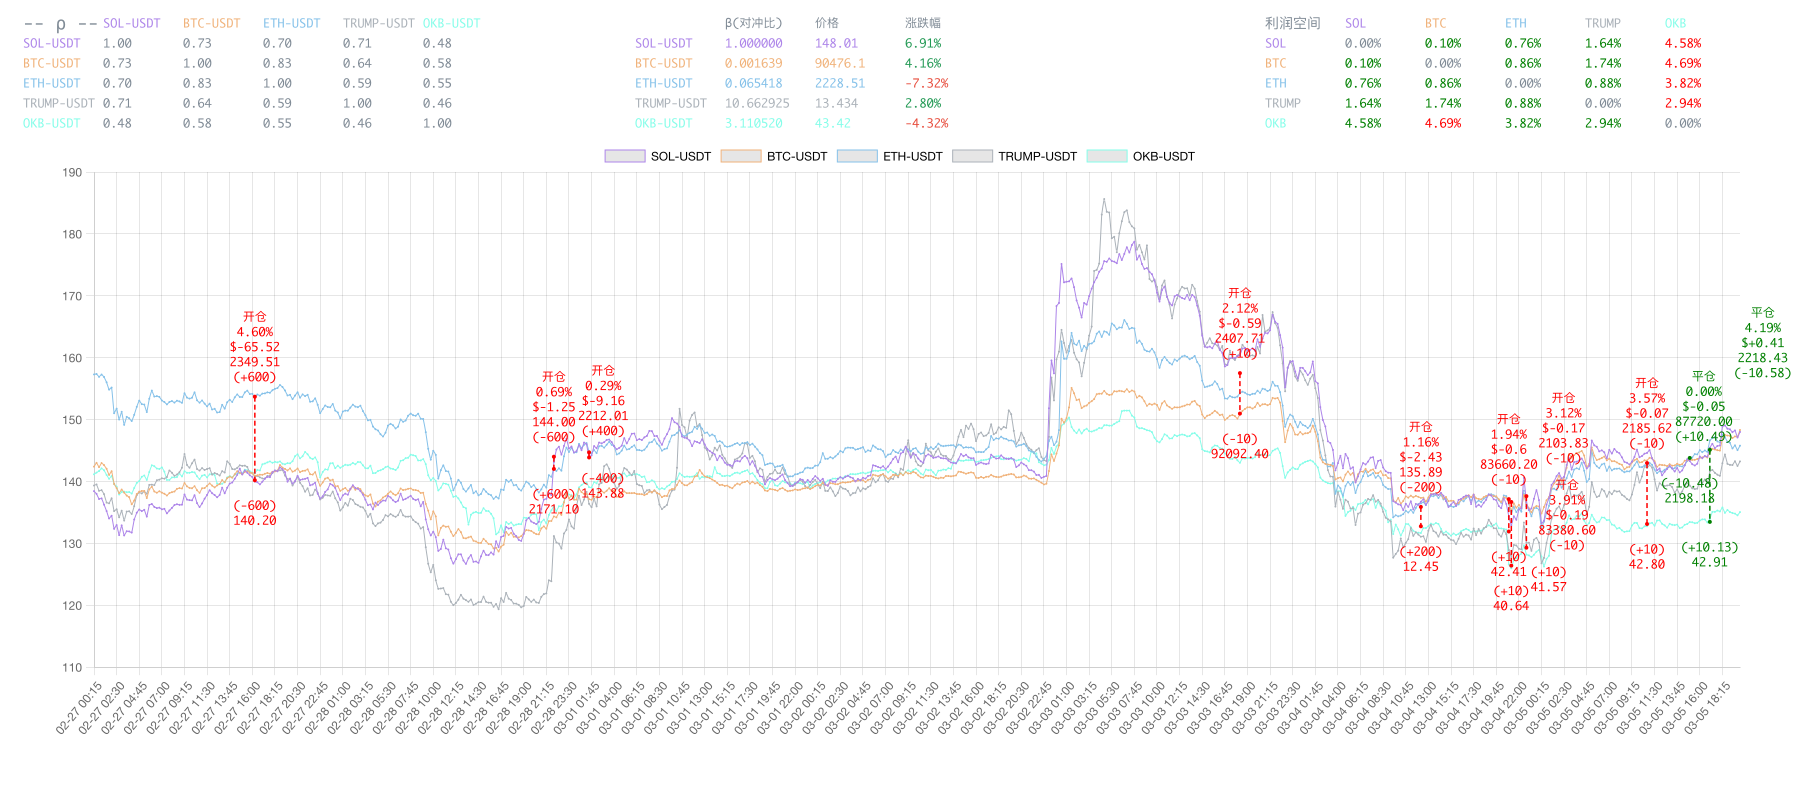
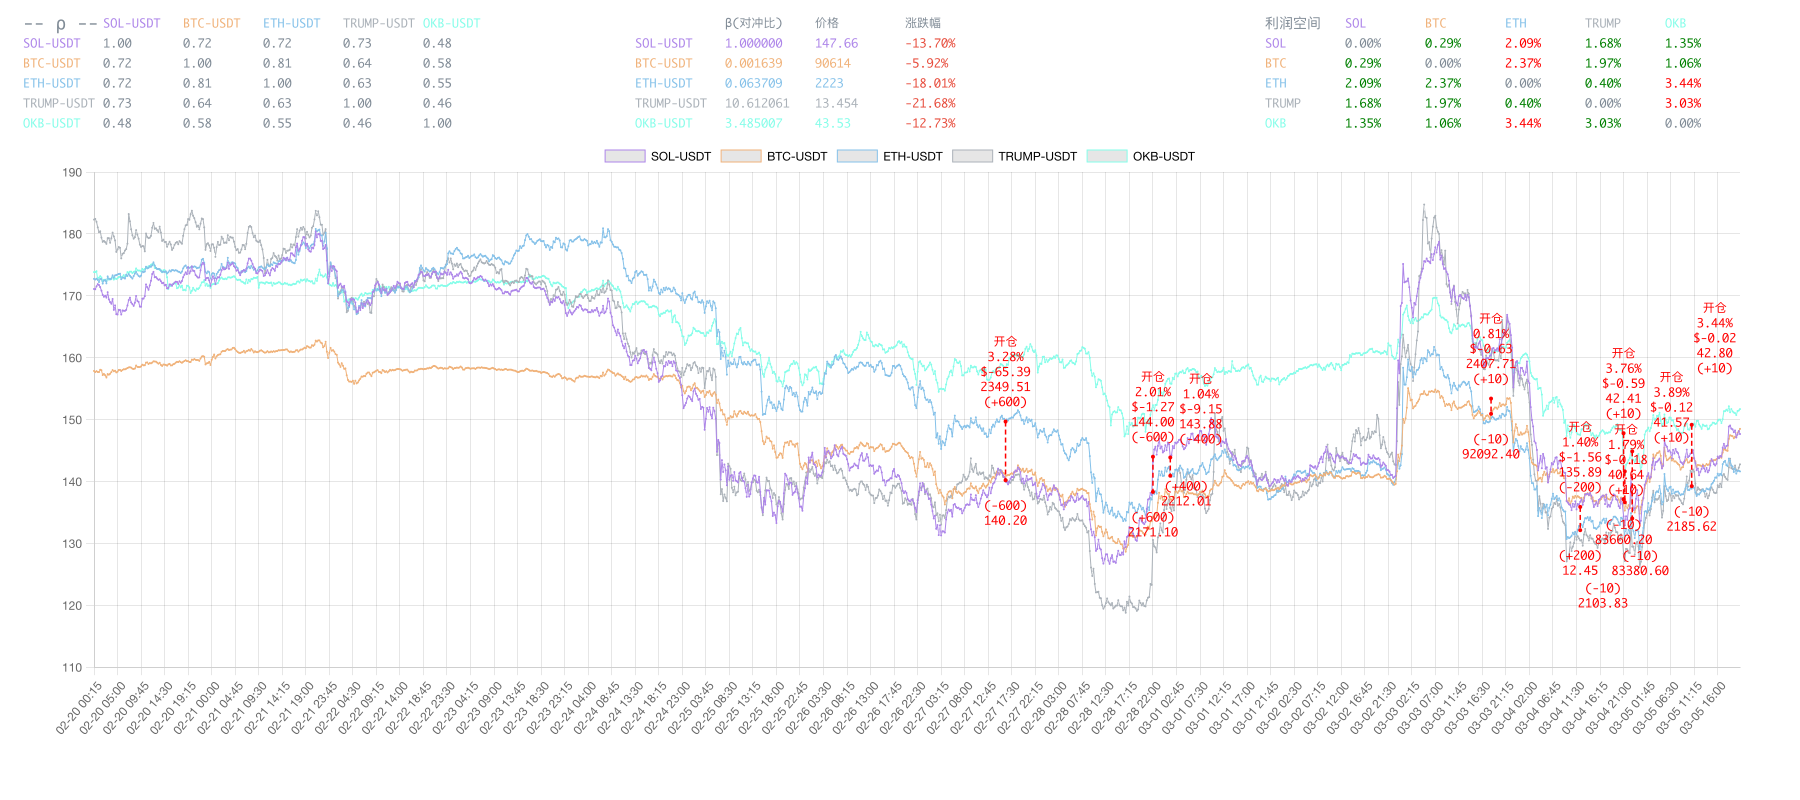
fix:切片视图的bug

diff --git a/src/TradeEngine/VisualEngine.js b/src/TradeEngine/VisualEngine.js
@@ -212,7 +212,7 @@ export class VisualEngine{
 
 
   /**
-   * 绘制已开仓头寸的实时价差
+   * 绘制实时价差信息
    * @param {*} chart 
    * @param {*} tradeId 
    * @param {*} collisionAvoidance 
@@ -287,7 +287,15 @@ export class VisualEngine{
     : paintLine(ctx, [x2, y2, `${v2}/${tag2}/${rateTag}`], [x1, y1, v1], color, collisionAvoidance)
   }
 
-  static _drawTransactions(chart, transactions, betaMap, collisionAvoidance){
+
+  /**
+   * 绘制历史价差信息
+   * @param {*} chart 
+   * @param {*} transactions 
+   * @param {*} betaMap 
+   * @param {*} collisionAvoidance 
+   */
+  static _drawTransactions(chart, transactions, betaMap, collisionAvoidance, show_closed=false){
     const bar_type = TradeEngine._bar_type;
     const ctx = chart.ctx;
     const xScale = chart.scales.x;
@@ -304,7 +312,7 @@ export class VisualEngine{
       const { ts: ts2, avgPx: px2, instId: instId2, sz: sz2, side: side2, tgtCcy:tgtCcy2, beta:beta2, } = order2;
   
       //已平仓的不展示
-      // if(transaction_side==='opening' && closed) return 
+      if(!show_closed && (transaction_side==="closing" || closed)) return
   
       let color = {
         'opening':OPEN_COLOR,
@@ -537,6 +545,10 @@ export class VisualEngine{
   }
 
 
+  /**
+   * 绘制每一笔交易的切片
+   * @param {*} tradeId 
+   */
   static _paintTransactionSlice(tradeId){ 
     const open_transaction = getOpeningTransaction(tradeId);
     const close_transaction = getClosingTransaction(tradeId);
@@ -609,7 +621,7 @@ export class VisualEngine{
   
           // 开平仓信息绘制
           const transactions = [open_transaction, close_transaction].filter(it=>it);
-          this._drawTransactions(chart, transactions, beta_map, collisionAvoidance) 
+          this._drawTransactions(chart, transactions, beta_map, collisionAvoidance, true) 
 
           // 绘制实时距离
           this._drawRealtimeDistance(chart, tradeId, collisionAvoidance)

diff --git a/main.js b/main.js
@@ -54,7 +54,7 @@ const params = {
   once_limit,
   candle_limit,
   from_when: getLastWholeMinute(new Date()),
-  to_when:new Date(2025,1,27,0,0,0).getTime(),
+  to_when:new Date(2025,1,20,0,0,0).getTime(),
 }
 
 const assetIds = assets.map(it=>it.id);
